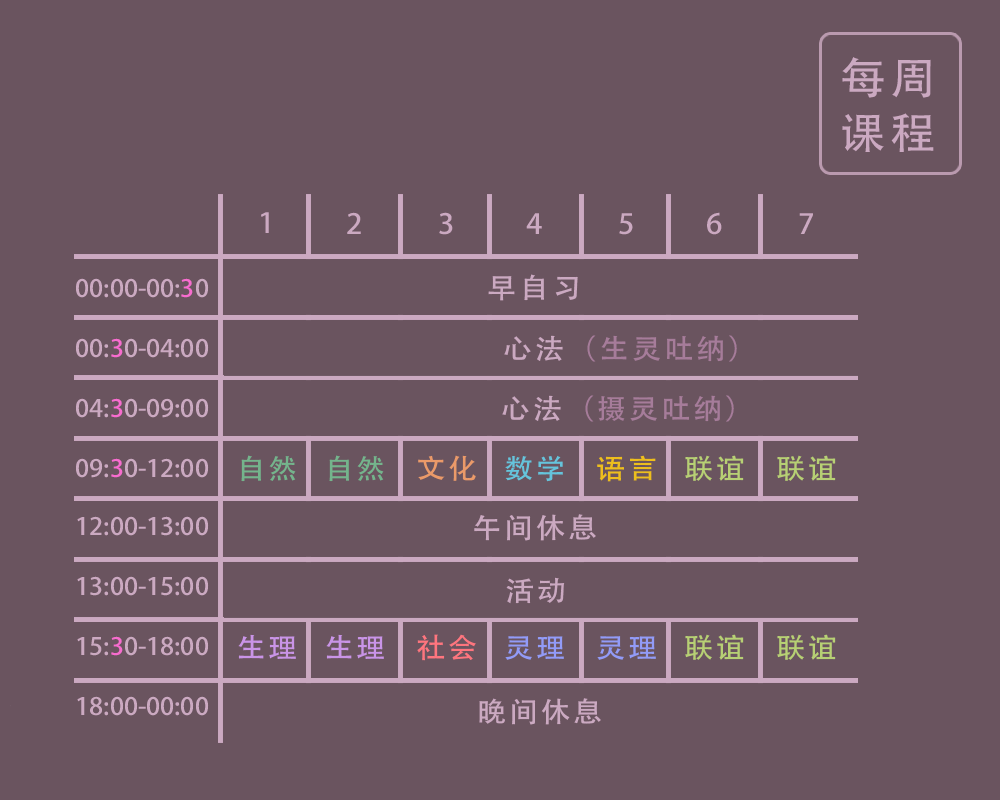
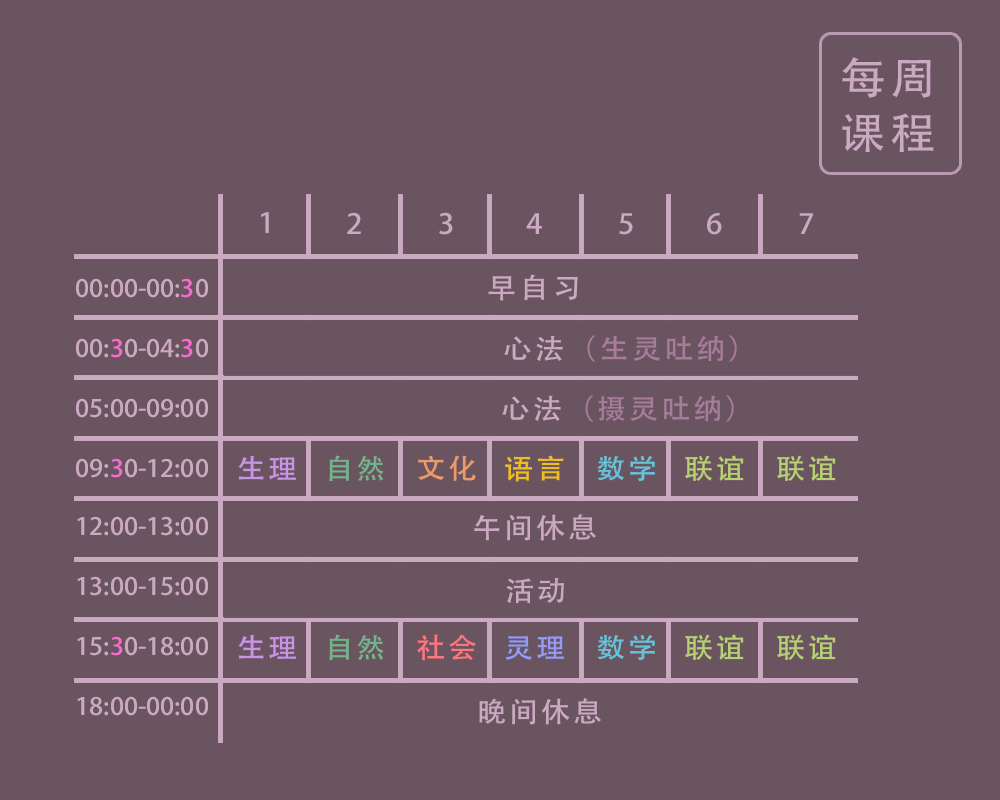
111

diff --git a/novel-a/chapter-019.html b/novel-a/chapter-019.html
@@ -89,7 +89,7 @@
 
 女孩还是有些心慌气短，但她勉力坚持下来；再次睁眼时已九点整。
 
-云霞媚颤巍巍起身，目不斜视地离开；两位助教说了些勉励的话，并提醒大家准时去上自然课。
+云霞媚颤巍巍起身，目不斜视地离开；两位助教说了些勉励的话，并提醒大家准时去上生理课。
 
 风和光伸个懒腰从地上跳起来，和季如意等朋友说她看到有熟人在庚子班，要去打招呼，让她们先往自然教室那边走。
 
@@ -103,7 +103,7 @@
 
 来到九州竟也躲不过。即使她装作没看到好友申请，风和光依然笑容满面地拦到面前来：
 
-“雪儿，这么巧，你也在庚区啊，我之前还不确定是不是你呢。你来这里感觉怎么样？今天我们两个班正好全天都在一起上课耶，对了，你自然课的预习作业写了吗？”
+“雪儿，这么巧，你也在庚区啊，我之前还不确定是不是你呢。你来这里感觉怎么样？今天我们两个班正好全天都在一起上课耶，对了，你生理课的预习作业写了吗？”
 
 “呃，作业，我写了。”宁涉雪惶然回答着，心想万一表姐问她为什么来九州怎么办？她最近两天编出好几个答案，但并没有自信瞒过风和光。
 
@@ -135,11 +135,11 @@
 
 “是吧？我跟你说，我……”
 
-表姐妹走到自然课教室时，宁涉雪已觉得自己的担心就像身后没人还频频转头那样不必要。表姐并没有问任何她需要撒谎的问题，反而让她对于如何做一名普通新生涌出灵感。
+表姐妹走到生理课教室时，宁涉雪已觉得自己的担心就像身后没人还频频转头那样不必要。表姐并没有问任何她需要撒谎的问题，反而让她对于如何做一名普通新生涌出灵感。
 
 无论谁站在表姐身边，都会显得很普通。
 
-这是宁涉雪在自然课教室被风和光热切地介绍给庚午班的几名女生时想到的。表姐的朋友们都对她很和气，很快接受她成为小团体的一份子。
+这是宁涉雪在生理课教室被风和光热切地介绍给庚午班的几名女生时想到的。表姐的朋友们都对她很和气，很快接受她成为小团体的一份子。
 
 也许九州并不是个只有坏选择的地方。宁涉雪隐约想道，她今天和表姐的交流就是一个好选择。
 

diff --git a/novel-a/chapter-045.html b/novel-a/chapter-045.html
@@ -21,7 +21,7 @@
     </header>
 
     <script type="text/plain" id="chapter-text">
-新历2025年1月31日是周五，学年考试周的最后一天。灵理昨天已考过，今天只剩上午的语言，正是万灵在九州最擅长的科目。
+新历2025年1月30日是周四，学年考试周的倒数第二天。相比下午的灵理和明天的数学，语言对万灵来说还算轻松的科目。
 
 走进教室，鹿慕溪已提前到了，如她向来的习惯那样。这位老人对待教学很严肃；在课堂之外则很友好，比如之前为丁丑班在中秋晚会的音乐剧上伴奏——Maisie除做讲师外同时也是一位自由演奏家，非常看重万灵的音乐才华，为她介绍许多社交资源。
 
@@ -69,7 +69,7 @@
 
 “好主意，拔河之后的嗓子更有助于复述我的音频。”
 
-“反正总算全考完了，放三天假呢，你们打算干什么啊？”
+“哎，赶紧考完吧，对了，后天开始放三天假，你们打算干什么？”
 
 万灵对三天假期早已规划妥当。她打算把手头的新曲写完，并且要参加Maisie介绍的一些音乐从业者举办的线上workshop——虽然学宫禁止亲自与校外人士见面，但只要有一位教职工全程陪同，她就可以参与视频会议。当然她还要和尹荣泉、从琮等朋友们小聚两次；她享受和这些女孩们的社交，虽然已经一年，她仍然每次都能学到新东西。
 

diff --git a/novel-a/chapter-023.html b/novel-a/chapter-023.html
@@ -21,7 +21,7 @@
     </header>
 
     <script type="text/plain" id="chapter-text">
-周四下午的第一节灵理课可谓是新生们讨论最多的一门课：心法课几乎等于睡眠课；生理课刚介绍完基本的人体结构；自然课在讲地球是圆的以及它的邻居也都是圆的；活动、文化、社会、数学也都未涉及一丁点魔法；但灵理课的第一节课就叫“灵是什么”。
+周四下午的第一节灵理课可谓是新生们讨论最多的一门课：心法课几乎等于睡眠课；生理课刚介绍完基本的人体结构；自然课在讲地球是圆的以及它的邻居也都是圆的；活动、文化、社会也都未涉及一丁点魔法；但灵理课的第一节课就叫“灵是什么”。
 
 一群选择踏道而不惜斩断尘缘的女孩们都跃跃欲试。
 
@@ -67,7 +67,7 @@
 
 萧飒意笑了，手在空中稍稍晃动，最后指向一名角落里没有举手的女孩。“你来说说。”
 
-风和光转头看去。原来是庚辰班的金同尘。今天从数学课起她就注意到这个女生，因为对方一直闭着眼睛；后来活动课上一起聊天才知道是盲人。
+风和光转头看去。原来是庚辰班的金同尘。今天从语言课起她就注意到这个女生，因为对方一直闭着眼睛；后来活动课上一起聊天才知道是盲人。
 
 “那你平时怎么读写啊？”原与辉当时心直口快地问。
 

diff --git a/novel-a/chapter-020.html b/novel-a/chapter-020.html
@@ -89,7 +89,7 @@
 
 她决定不向学宫报告，先看看诅咒的情况再做打算；目前除Helena外并没人关注到她的异常，所以只需处理一下Helena。
 
-活动课后是生理课。风和光走进教室时，见好朋友的嘴唇已不再苍白，正在认真地写明天的预习作业，看起来一切如常。但风和光依然认为朋友这回遇到的麻烦不小——她不需要什么证据，她能看得出；因此她谨慎地没有过去打扰，而是在课程开始后发送一条消息：
+活动课后又是生理课。风和光走进教室时，见好朋友的嘴唇已不再苍白，正在认真地写明天的预习作业，看起来一切如常。但风和光依然认为朋友这回遇到的麻烦不小——她不需要什么证据，她能看得出；因此她谨慎地没有过去打扰，而是在课程开始后发送一条消息：
 
 【阿秋，你今晚要约吐纳指导嘛？我看到一个教练最多可以负责两名学生，我们一起怎么样】
 

diff --git a/novel-a/chapter-033.html b/novel-a/chapter-033.html
@@ -39,7 +39,7 @@
 
 “嗯，你选了三门什么？”
 
-“我选的是瑜伽、美甲，还有一门设计类的。听起来有点水，笑死，不过我确实不想上太专业的活动课，光是平时的科目我已经有点应付不过来，尤其是灵理，你也知道，萧飒意真是像鬼一样缠着我，非要想把我问住，为了不给她这个机会，我每周四周五午休都得……得好好预习。”
+“我选的是瑜伽、美甲，还有一门设计类的。听起来有点水，笑死，不过我确实不想上太专业的活动课，光是平时的科目我已经有点应付不过来，尤其是灵理，你也知道，萧飒意真是像鬼一样缠着我，非要想把我问住，为了不给她这个机会，我每周四午休都得……得好好预习。”
 
 “萧老师真的很有童心。对了，你那个朋友没有选钢琴吗？”
 

diff --git a/novel-a/chapter-044.html b/novel-a/chapter-044.html
@@ -137,7 +137,7 @@
 
 也不是那么不一样。但万秋知道朋友对妹妹向来有些偏见，因此只嗯了一声。
 
-风和光摸不准朋友目前对家人的心态，所以没有大肆重提旧事；对她来说，想到莫名妙已遗忘一切，童年过往就像缩回指甲的猫爪，不再钩得人痛苦难安，甚至偶尔还会冒出自己已经原谅的错觉。
+风和光摸不准朋友目前对家人的心态，所以没有大肆重提旧事；对她来说，想到莫名妙也许已遗忘一切，童年过往就像缩回指甲的猫爪，不再钩得人痛苦难安，甚至偶尔还会冒出自己已经原谅的错觉。
 
 比如此时此刻。
 

diff --git a/novel-a/chapter-021.html b/novel-a/chapter-021.html
@@ -113,7 +113,7 @@
 
 “但是我们也学数学，在这里。”万灵笑了，原来还有不擅长数学的华裔女孩。
 
-“就两节课，比我们原来少多了！而且作业肯定也不多，自然课和生理课还有文化都没布置作业。”
+“就两节课，比我们原来少多了！而且作业肯定也不多，生理课和自然课还有文化都没布置作业。”
 
 “万灵，你都不会讲华语，为什么当时会选择来九州啊？”云共影向万灵问出新生破冰top 1的问题。
 

diff --git a/novel-a/chapter-034.html b/novel-a/chapter-034.html
@@ -25,9 +25,9 @@
 
 “又放假啊，本来还想去找小鼠们玩呢，昨天我要走的时候它们不停地叫。”
 
-“要是早两天多好，像上次谷雨就是周五，能少上一节语言和灵理。”
+“要是早两天多好，像上次谷雨就是周五，能少上一天数学呢！”
 
-“但吴老师也没让我们闲着啊，提前布置一个大作业。”
+“但吕老师也没让我们闲着啊，提前布置一个大作业。”
 
 “作业还可以灵活应对嘛，上课又不能逃课。”
 

diff --git a/novel-a/chapter-037.html b/novel-a/chapter-037.html
@@ -89,7 +89,7 @@
 
 “不会啊，你怎么突然问这个？”风和光疑惑，“阿秋没有学过乐器。笑死，我好像没告诉过你，因为我不知道你还记得那些话嘛，Juno就是万秋。你竟然不知道嘛，语言课她就是用这个名字。”
 
-“周五，我和你们，不是一天上课。”
+“周四，我和你们，不是一天上课。”
 
 “反正你现在知道啦，你一定要帮我保密，不要告诉她啊。不过你怎么突然问起Juno的事？”
 
